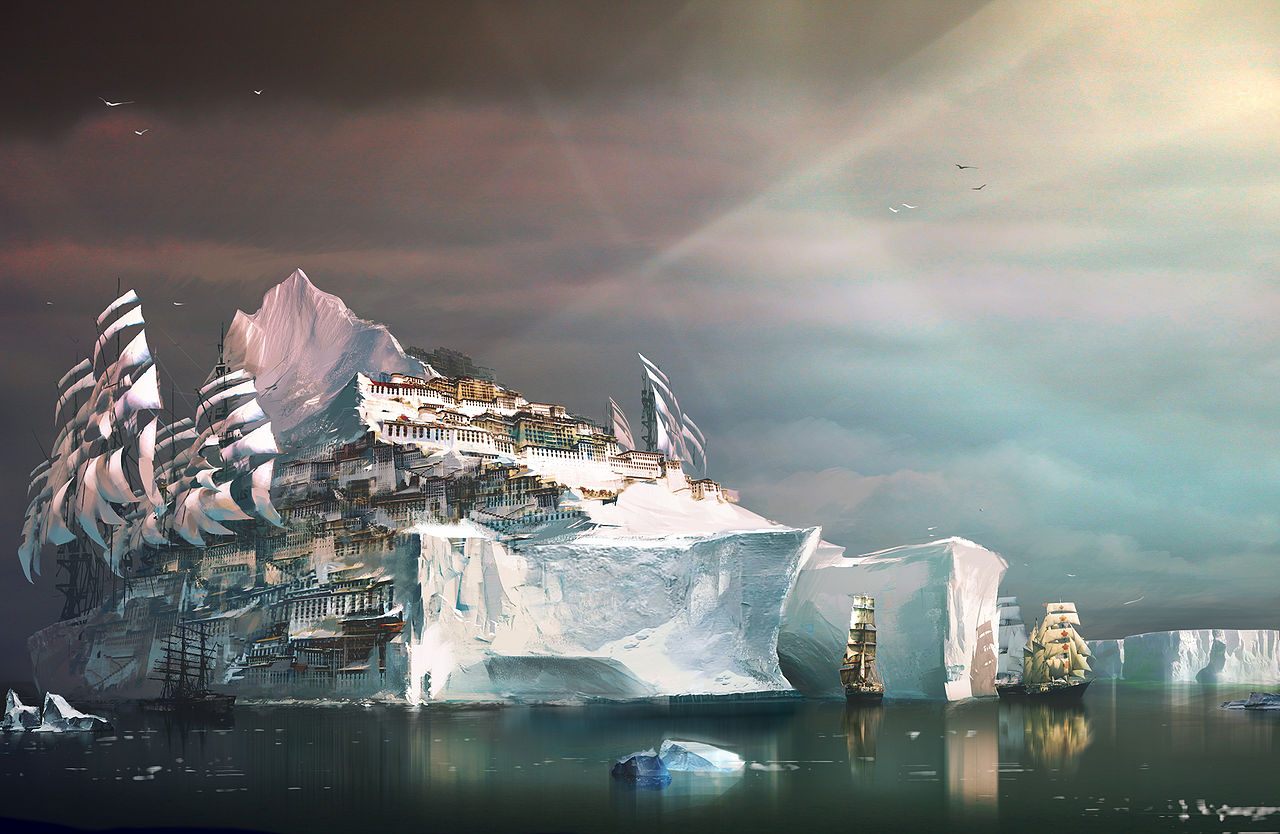
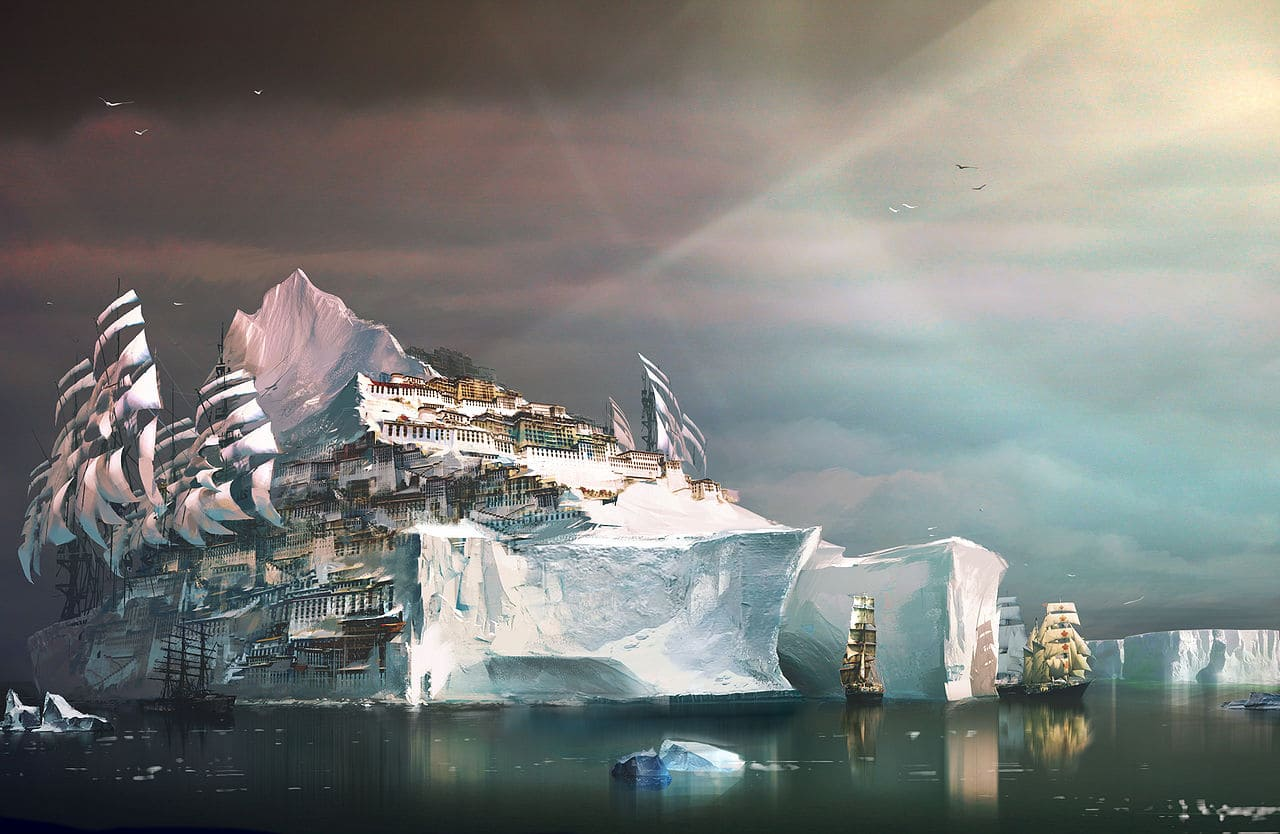
Optimize images

diff --git a/src/components/Layout.js b/src/components/Layout.js
@@ -1,4 +1,5 @@
 import * as React from 'react';
+import Image from 'next/image';
 
 export default function Layout({ children }) {
     return (
@@ -16,11 +17,10 @@ function Header() {
     return (
         <header className="bg-gray-900">
             <nav className="container px-4 mx-auto md:px-6 lg:px-8" aria-label="Top">
-                <div className="flex items-center justify-between w-full py-6 border-b border-indigo-500 lg:border-none">
+                <div className="flex items-center justify-between w-full py-3 border-b border-indigo-500 lg:border-none">
                     <div className="flex items-center">
-                        <a href="/" className='flex items-center text-lg font-black leading-4 tracking-wide text-white rounded-md select-none'>
-                            <img className="w-auto h-10 rounded-full" src="/logo.png" alt="" />
-                            <span className="sr-only">GW2 Fish logo</span>
+                        <a href="/" className='relative flex items-center text-lg font-black leading-4 tracking-wide text-white rounded-md select-none'>
+                            <Image className="rounded-full" src="/logo.png" alt="GW2 Fish Logo" width="40" height="40" />
                             <span className="ml-4">GW2 Fish</span>
                         </a>
                     </div>
@@ -31,7 +31,7 @@ function Header() {
                     </div>
                 </div>
             </nav>
-        </header>
+        </header >
     )
 }
 
@@ -44,8 +44,8 @@ function Footer() {
             <div className="container px-4 py-12 mx-auto lg:py-16 md:px-6 lg:px-8">
                 <div className="xl:grid xl:grid-cols-4 xl:gap-8">
                     <div className="space-y-8 xl:col-span-1">
-                        <div className='flex items-center text-lg font-black leading-4 tracking-wide text-white rounded-md select-none'>
-                            <img className="w-auto h-10 rounded-full" src="/logo.png" alt="" />
+                        <div className='relative flex items-center text-lg font-black leading-4 tracking-wide text-white rounded-md select-none'>
+                            <Image className="rounded-full" src="/logo.png" alt="GW2 Fish Logo" width="40" height="40" />
                             <span className="sr-only">GW2 Fish logo</span>
                         </div>
                         <p className="text-base text-white">Made by Nicolas Dabreo (Dabs.7509)</p>

diff --git a/src/pages/index.js b/src/pages/index.js
@@ -52,8 +52,8 @@ function ZoneAchievements({ achievements }) {
   return filteredAcheivements.map(achievement => (
     <li key={achievement.id} className="relative">
       <a href={slugify(achievement.name)} className="group">
-        <div className="block w-full overflow-hidden bg-gray-100 rounded-lg aspect-w-10 aspect-h-7 ">
-          <img src={`/${achievement.id}.jpg`} alt={`${achievement.name} Concept Art`} className="object-cover w-full h-24 pointer-events-none md:h-28 lg:h-40 group-hover:opacity-75" />
+        <div className="relative block overflow-hidden bg-gray-100 pointer-events-none h-28 aspect-w-10 aspect-h-7 md:h-28 lg:h-32 xl:h-40 group-hover:opacity-75">
+          <Image priority src={`/${achievement.id}.jpg`} alt={`${achievement.name} Concept Art`} className="rounded-lg" layout="fill" />
         </div>
         <p className="block mt-2 text-sm font-medium text-gray-900 truncate pointer-events-none group-hover:opacity-75">{achievement.name}</p>
         <p className="block text-sm font-medium text-gray-500 pointer-events-none group-hover:opacity-75">0 / {achievement.bits.length}</p>
